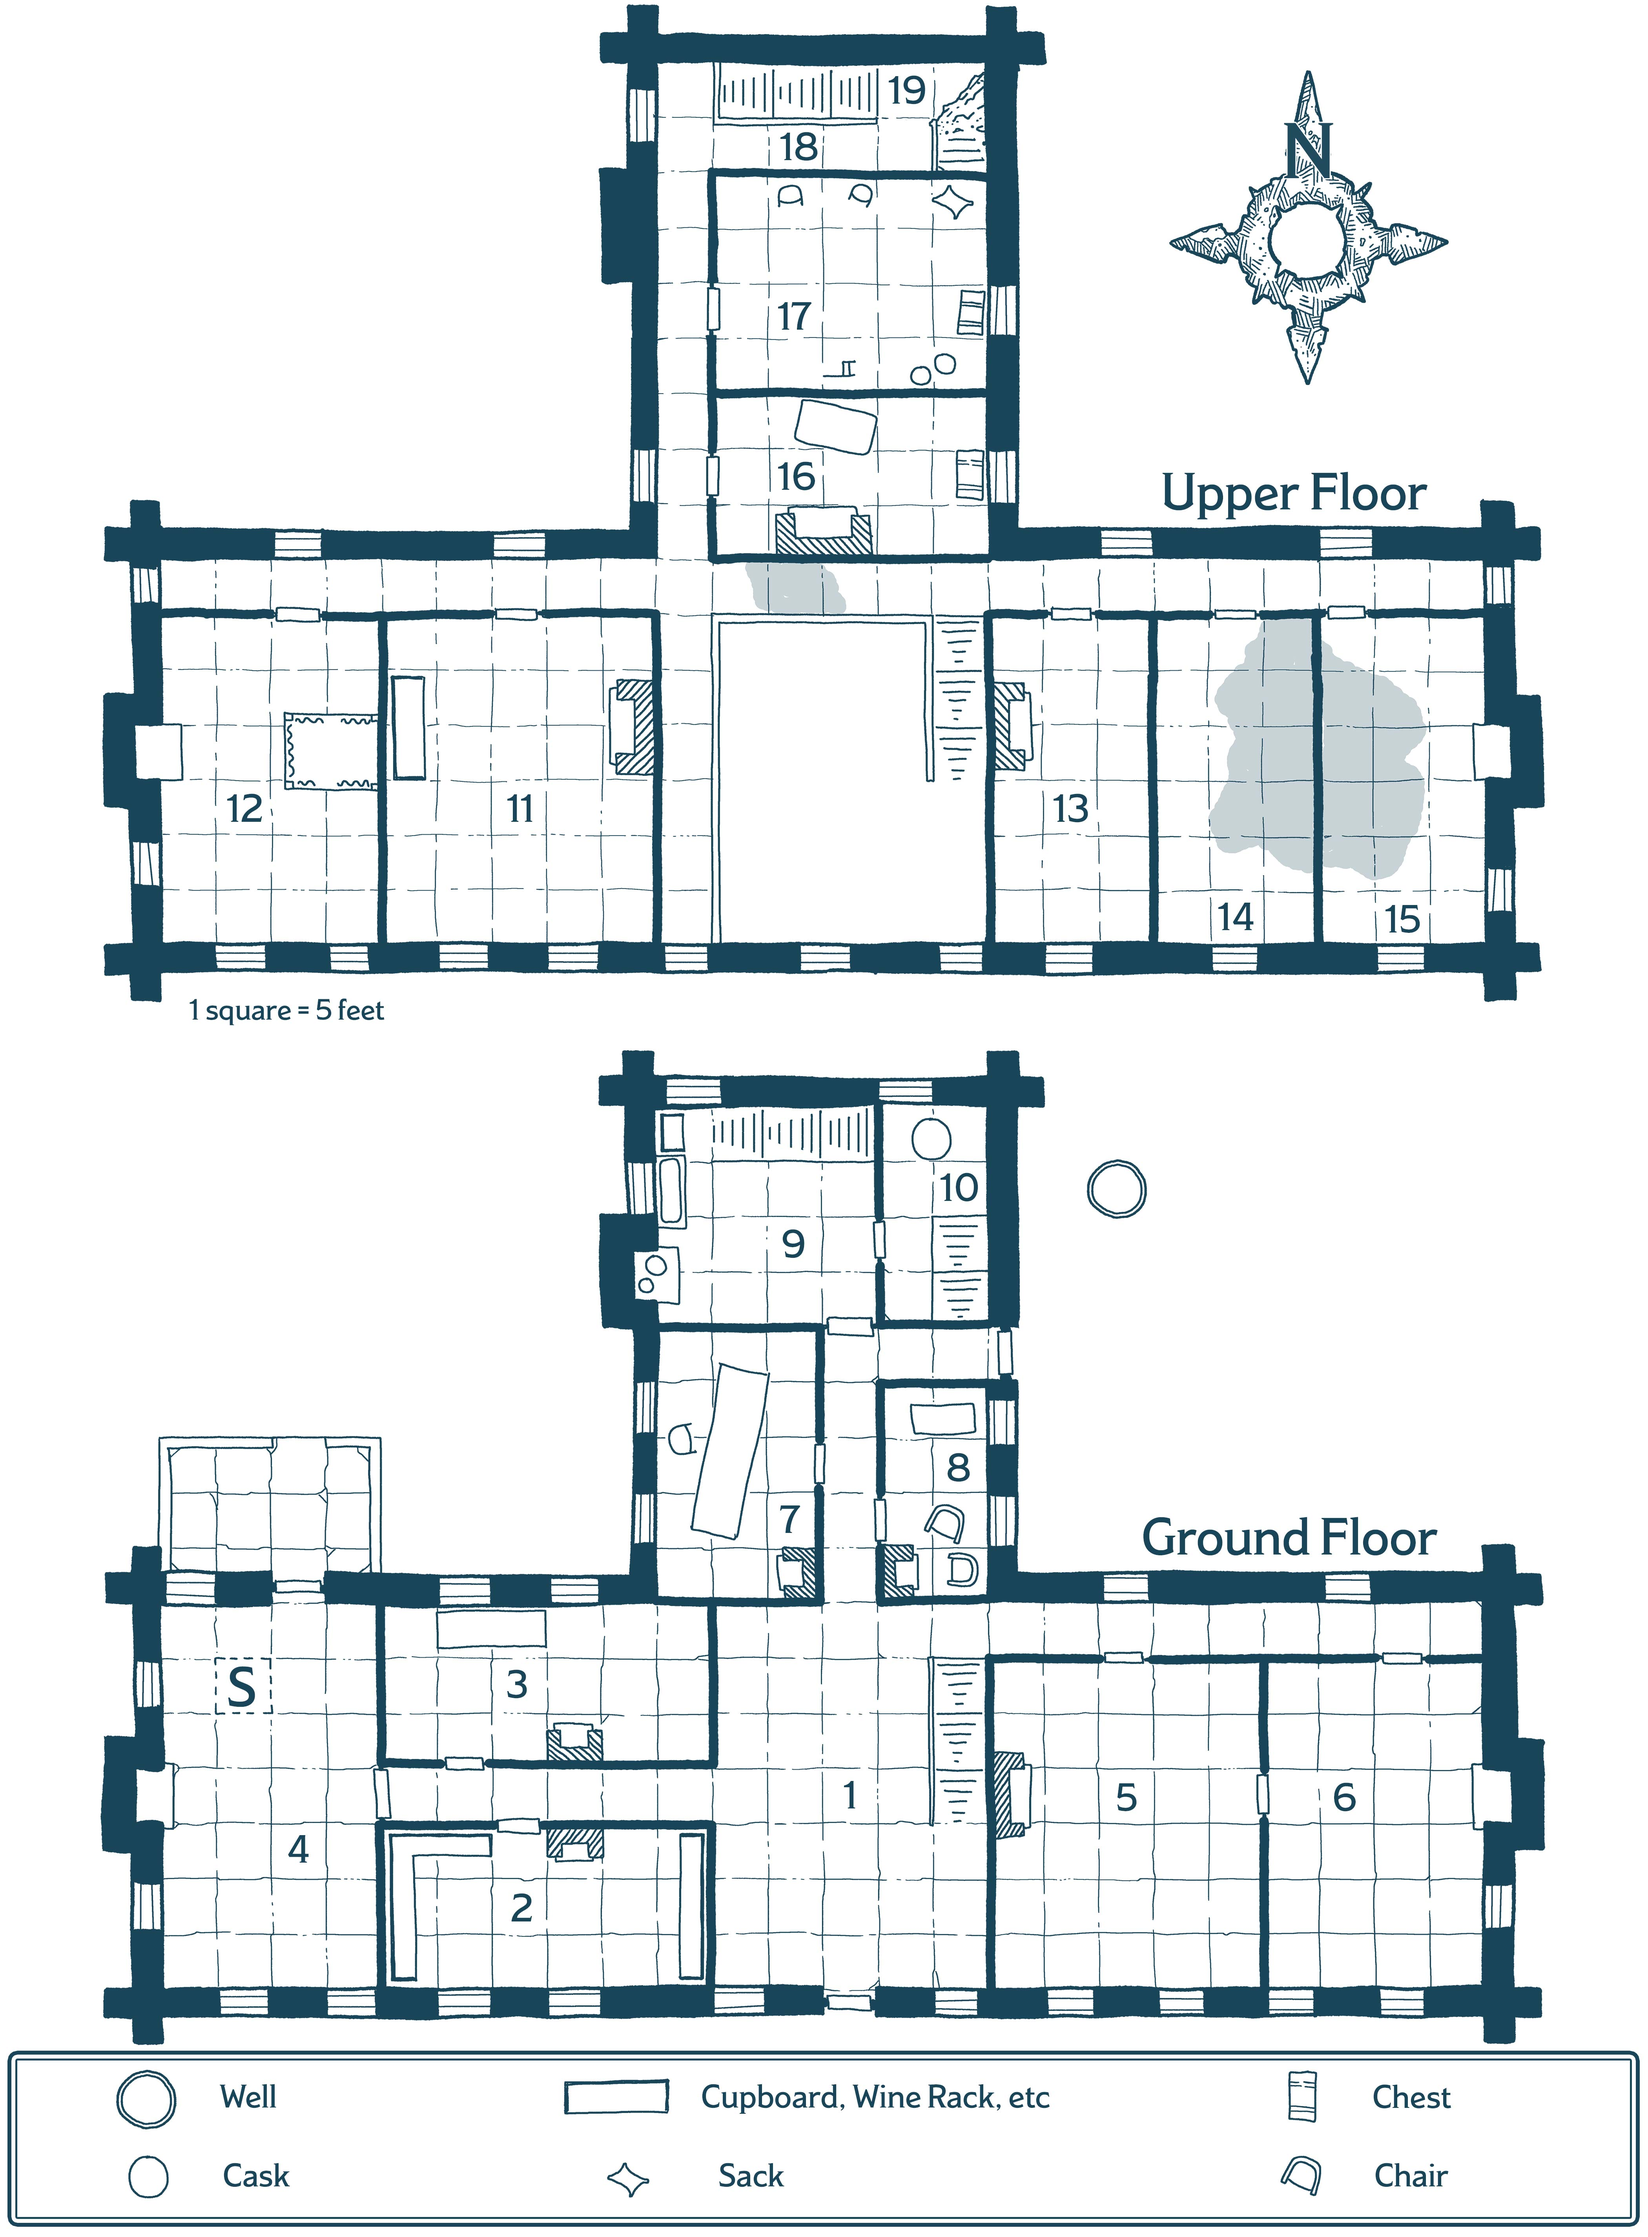
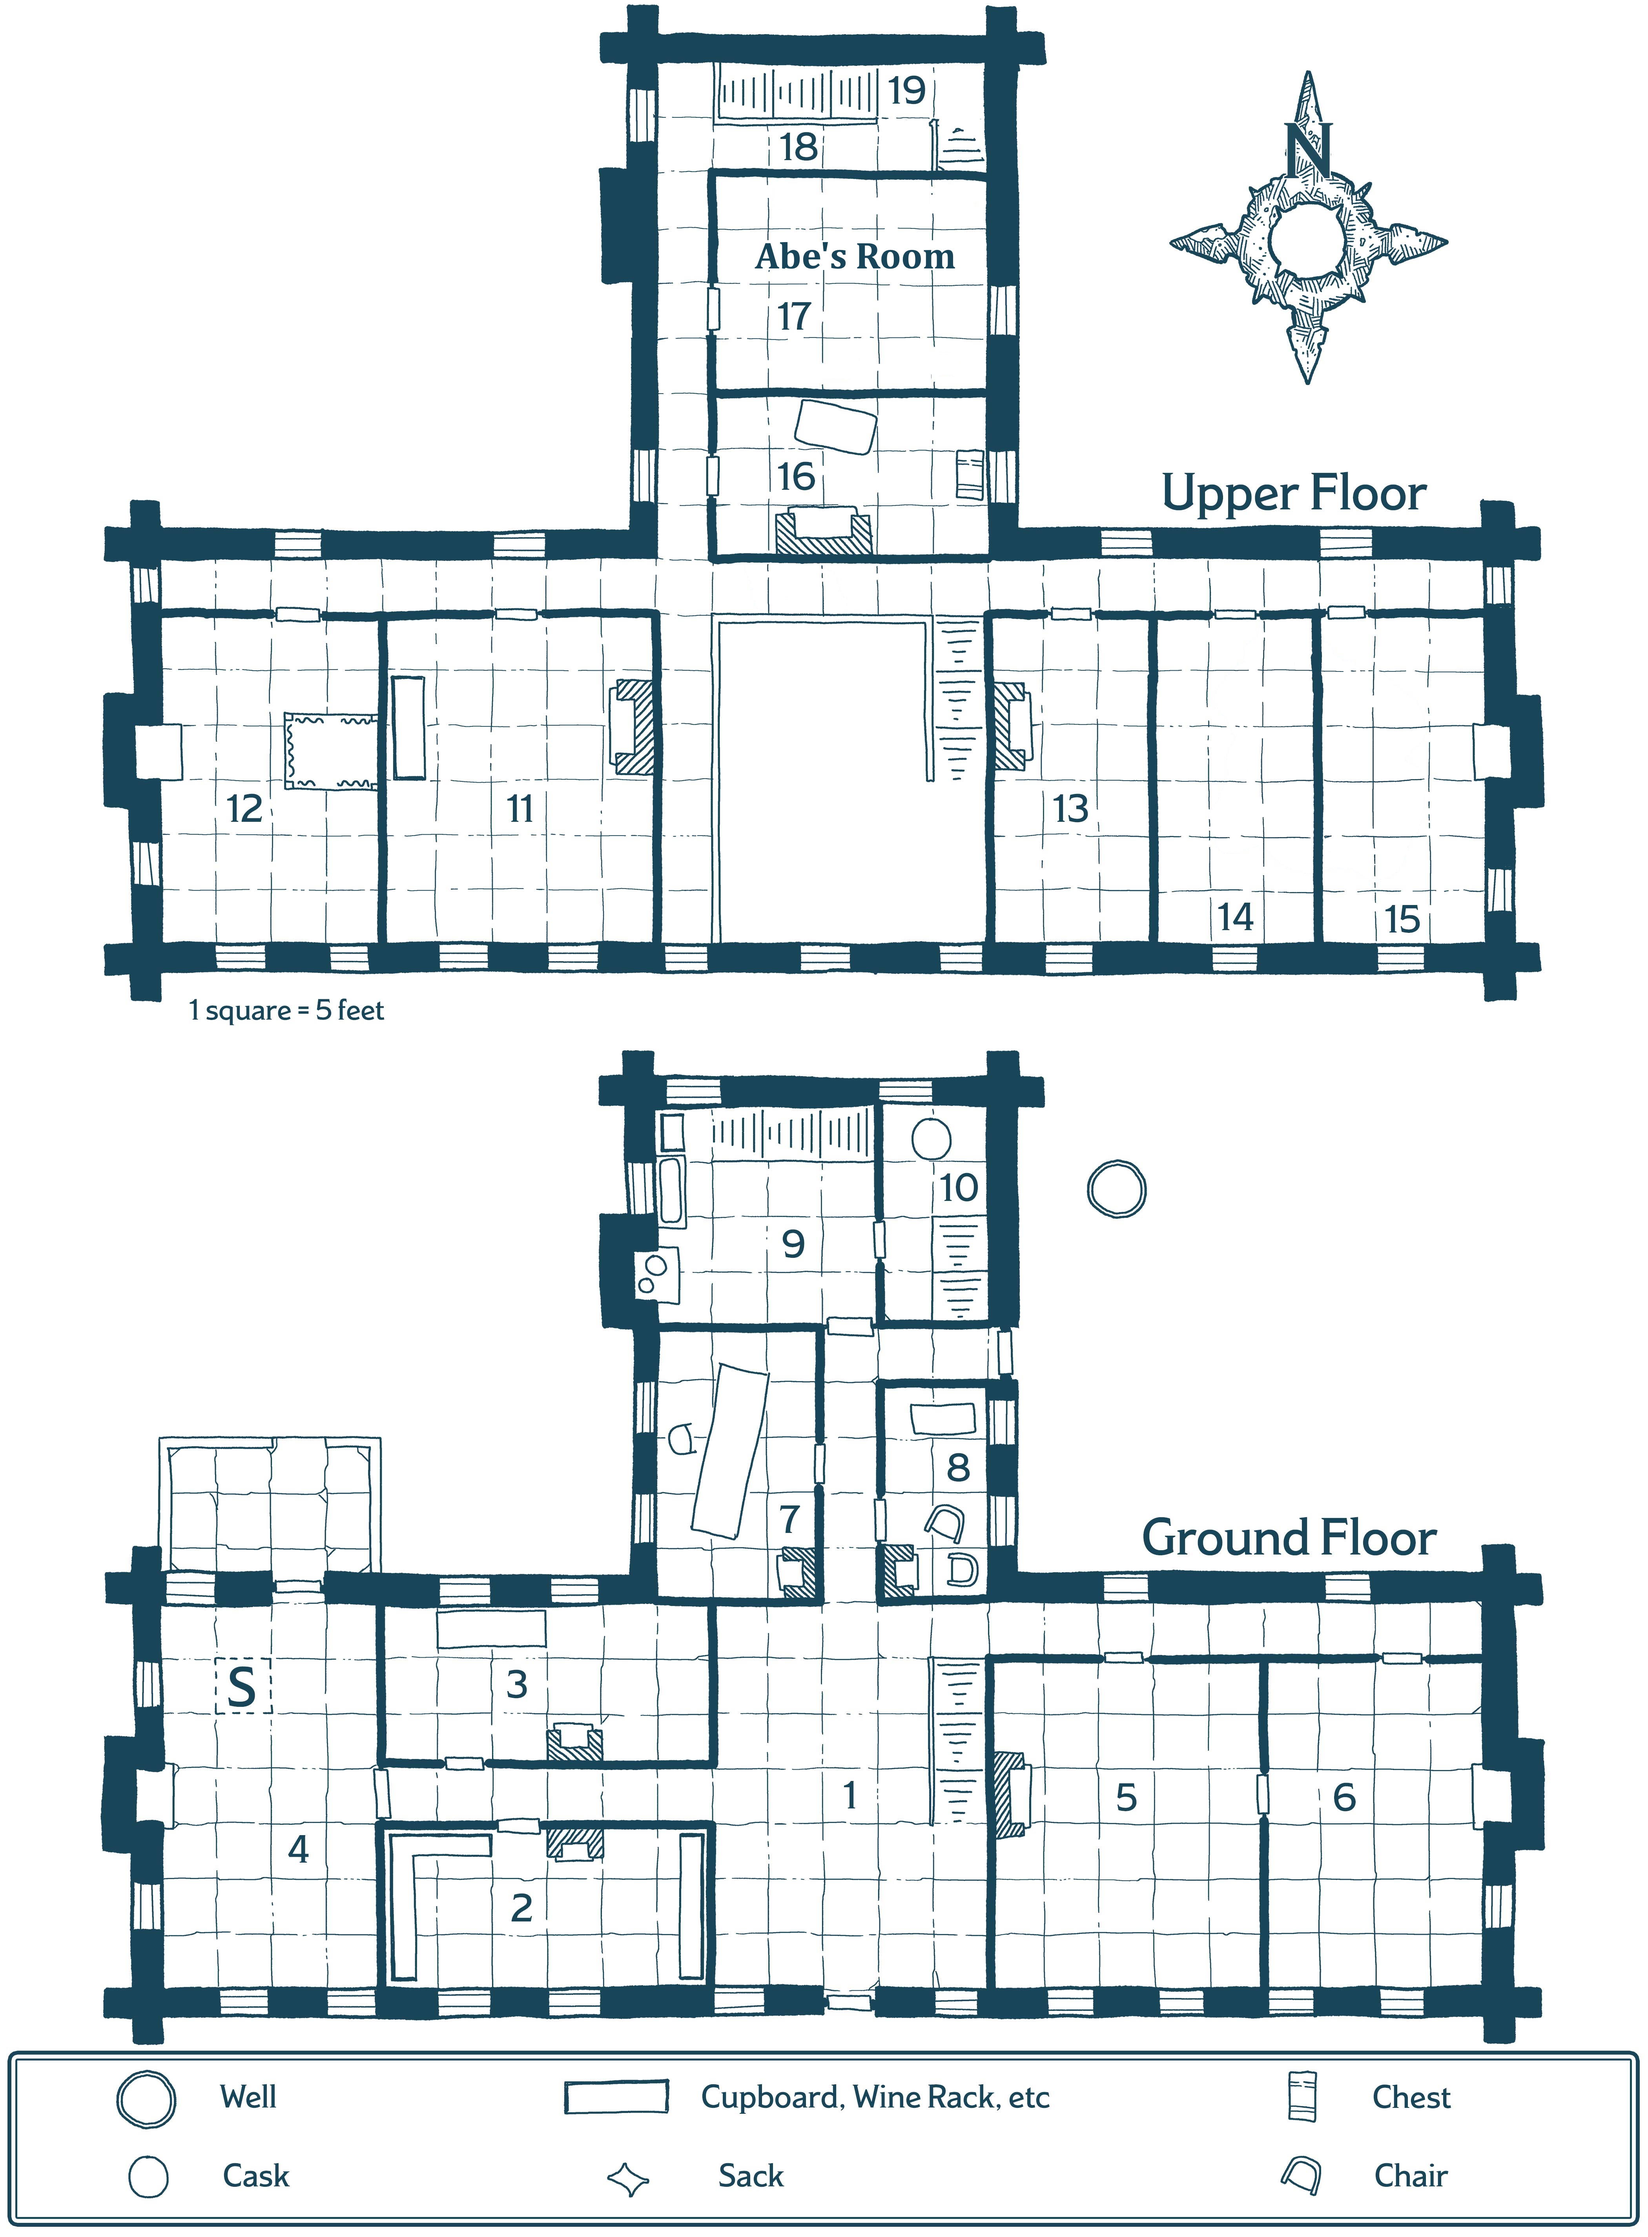
Abe's room repaired.

diff --git a/DND/ManorRules.html b/DND/ManorRules.html
@@ -14,6 +14,35 @@
       <img style="max-width:49%;" src="manor-lower.png" alt="Cellar/Cave map">
     </details>
     <hr/>
+    <h2>Completed Upgrades</h2>
+    <div class="box static">
+      <div class="panel info">
+        <h3>Repairing the Manor</h3>
+        <p>
+          Finished on <span title="Saturday">Starday</span>, the 8th of <span title="December">Sunsebb</span>.
+        </p>
+        <p>
+          Abe paid to have the necessary basic repairs done, and Stiobhard Manor is now in much better shape.
+        </p>
+        <p>
+          Other repairs can now begin.
+        </p>
+      </div>
+      
+      <div class="panel info">
+        <h3>Abe's Bedroom</h3>
+        <p>
+          Finished on <span title="Monday">Moonday</span>, the 10th of <span title="December">Sunsebb</span>.
+        </p>
+        <p>
+          Abe paid to have a bedroom built (room 17 on the map), and did all of the work himself.
+        </p>
+        <p>
+          As long as he stays at Stiobhard Manor, Abe can now maintain any lifestyle for half price, needing to pay only for food.
+        </p>
+      </div>
+
+    </div>
     <h2>Restoration rules</h2>
     <p>
       The following options are available to improve the manor.
@@ -24,21 +53,6 @@
       The gold cost won't decrease, however, and the extra day's worth of time must be paid in full.
     </p>
     <div class="box static">
-      <div class="panel info">
-        <h3>Repairing the Manor</h3>
-        <strong>Cost</strong>: 1,400gp, 7 days
-        <p>
-          Repairs the walls around town, replaces the rotted floorboards, removes the broken furniture,
-          and clears out any remaining debris left behind by Caspar or the smugglers.
-          The manor is now guaranteed free of giant centipedes, giant poisonous snakes, giant weasels,
-          stirges, rot grubs, green slime, and any and all forms of aggressive spiders.
-          The rooms will mostly be bare, ready for further improvements.
-        </p>
-        <p>
-          <strong>This must be the first upgrade.</strong>
-          No installing fancy facilities when there's still mold.
-        </p>
-      </div>
 
       <div class="panel info">
         <h3>Refurbish Bedroom</h3>

diff --git a/DND/recap.html b/DND/recap.html
@@ -2507,7 +2507,7 @@
               <li>-550gp towards a new alchemy lab.</li>
               <li>Sold the Helm of Underwater Action for 150gp.</li>
               <li>Sold the +1 Greatsword for 150gp.</li>
-              <li>-14gp for Modest Lifestyle.</li>
+              <li>-10gp for Modest Lifestyle.</li>
               <li>-96gp and twelve days on Giant Training. 24/27 days completed.</li>
               <li>-54gp for wages and back-wages from the Barrier Peaks trip.</li>
             </ul>
